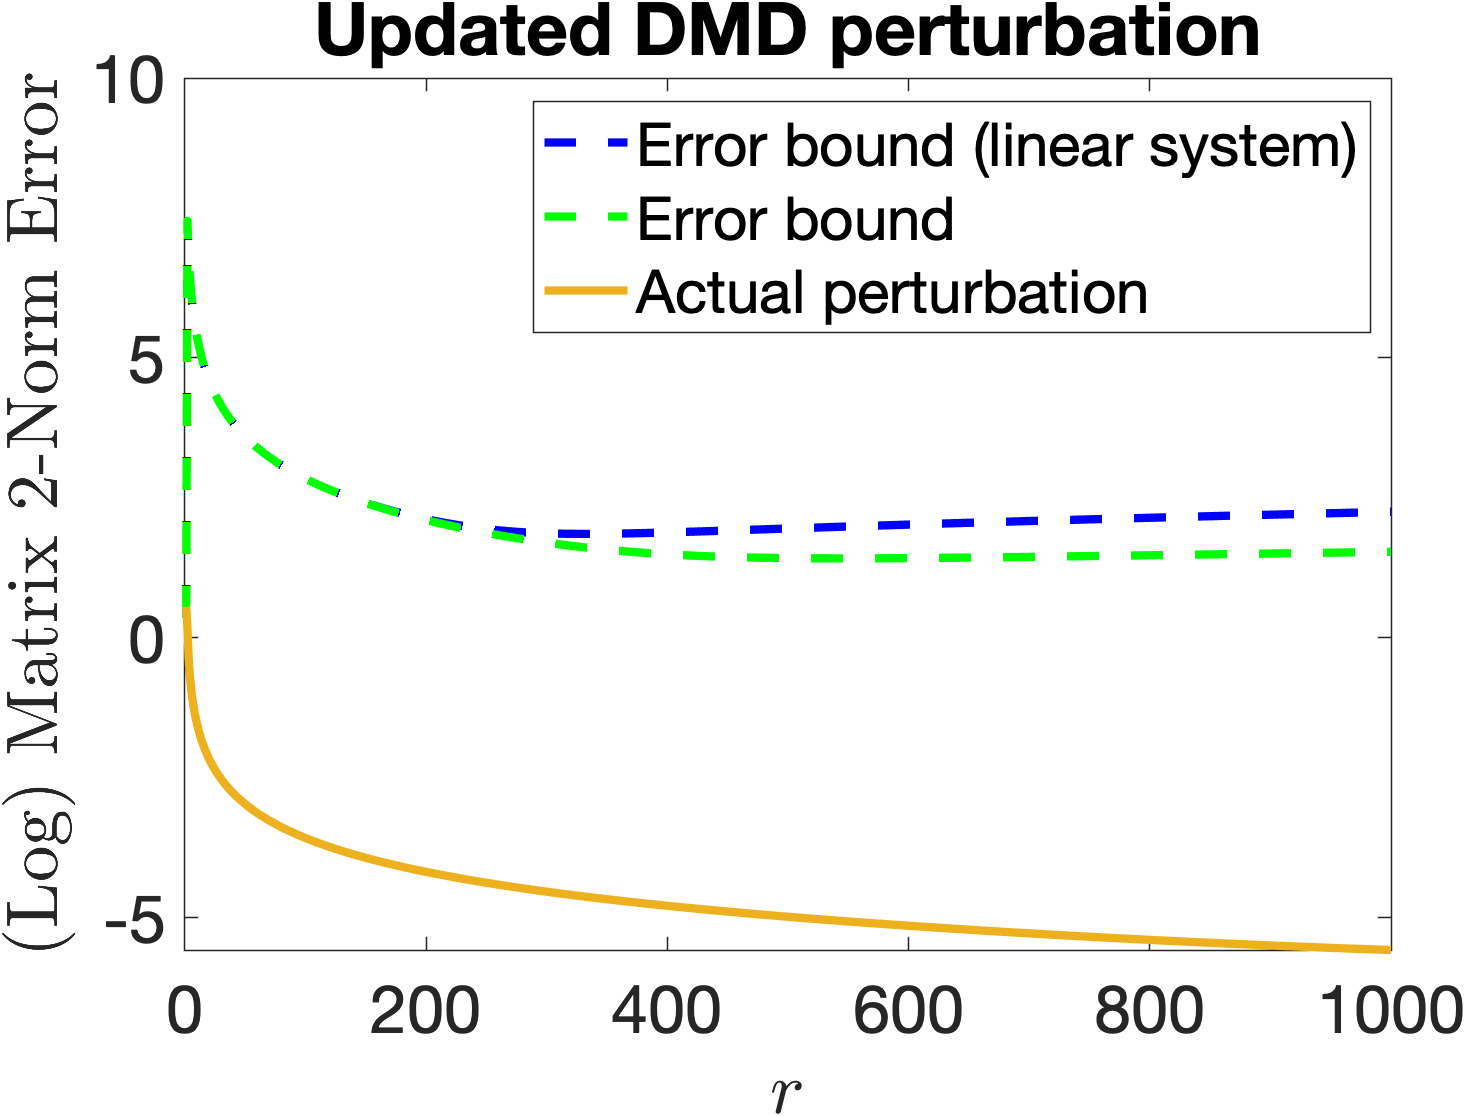
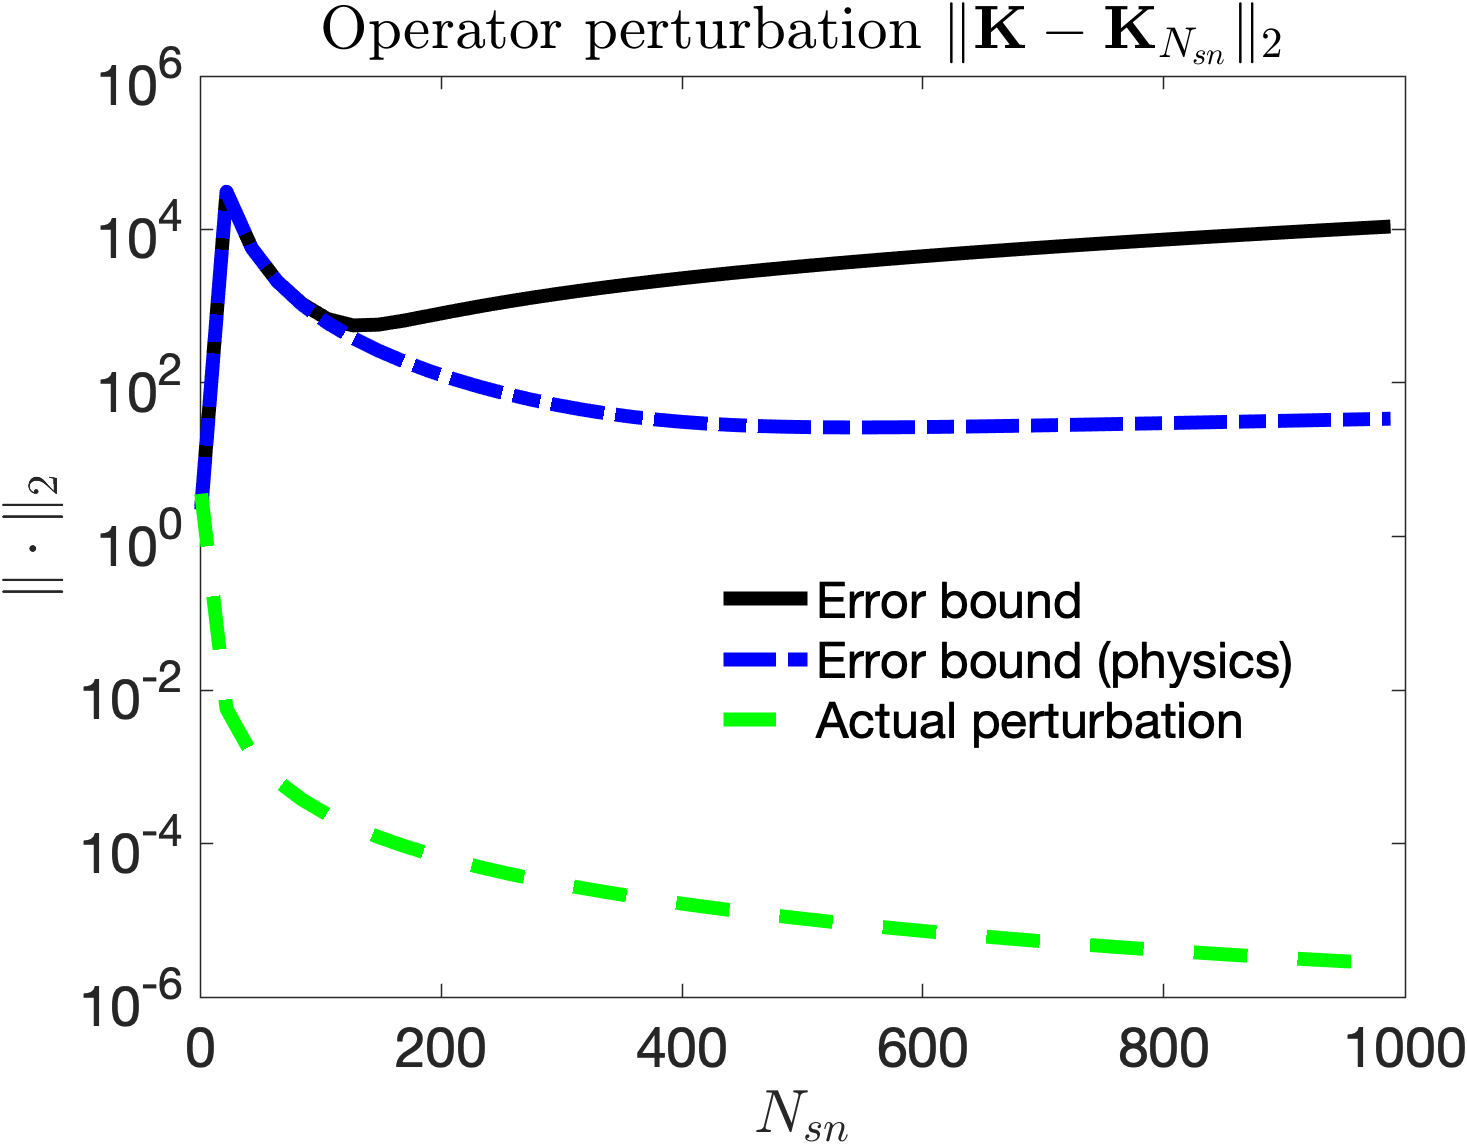
updated plots for draft revision

diff --git a/upper_bounds/test1_linear_system.m b/upper_bounds/test1_linear_system.m
@@ -5,15 +5,19 @@
 
 clear; clc; rng("default");
 
+
 % simulate data for the time dependent linear system
 x0 = [1,0];
 dt = 1e-3;
-tend = 10.0;
+tend = 20.0;
 tspan = 0:dt:tend+dt;
+% parameter for strength of linear dynamical system 
+eps = 0.1;
 nt = length(tspan);
-[t,U] = ode45(@linear_time, tspan, x0);
+wrapper = @(t, x) linear_time(t, x, eps);
+[t,U] = ode45(wrapper, tspan, x0);
 U = U';
-%% Time-shift upper bound
+% Time-shift upper bound
 % divide data 
 % number of snapshots
 M = 1000+1;
@@ -25,6 +29,9 @@ m = M-k+1;
 all_errors = zeros(M,1);
 all_upper_no_physics = zeros(M,1);
 all_upper_with_physics = zeros(M,1);
+
+% actual Y norm
+all_actual_y_norms = zeros(M,1);
 for i = 1:m-1
     % subslice matrices
     Xi = U(:,1:i);
@@ -56,7 +63,8 @@ for i = 1:m-1
     v_norm = norm(v,2);
     X_inv_norm = norm(pinv(Xi),2);
 
-    Y_norm = norm(Yi);
+    Y_norm = norm(Yi,2);
+    all_actual_y_norms(i) = Y_norm;
     %c = 1/(u'*u-u'*Xi*pinv(Xi)*u);
     c = 1/(u'*u);
     const1 = (c^2)*(u_norm^2)*(1+(u_norm/X_inv_norm)^2);
@@ -65,7 +73,7 @@ for i = 1:m-1
     all_upper_no_physics(i) = sqrt(const1*const2+const3);
 
     % compute physics-informed upper bound
-    Y_norm_physics = all_upper(i);
+    Y_norm_physics = all_upper(i)^2;
     % modified const2, others do not depend on Ynorm
     const2 = (Y_norm_physics^2+v_norm^2);
     all_upper_with_physics(i) = sqrt(const1*const2+const3);
@@ -73,59 +81,83 @@ for i = 1:m-1
 end
 
 
-%%
+
 figure(1);
-plot_skip=20;
+plot_skip=21;
 plot(1:plot_skip:M, log10(all_Xnorm(1:plot_skip:end)), ...
-    "-*", "Color", "green", "LineWidth", 3.0); 
+    "--", "Color", "green", "LineWidth", 5.0); 
+
+hold on;
+plot(1:plot_skip:M, log10(all_actual_y_norms(1:plot_skip:end)), ...
+    "-.", "Color", "#EDB120", "LineWidth", 5.0); 
+
 hold on;
 plot(1:plot_skip:M, log10(all_upper(1:plot_skip:end)), ...
-    "-*", "Color", "blue", "LineWidth", 3.0); 
+    "-", "Color", "black", "LineWidth", 5.0); 
 
-legend(["$||\mathbf{X}||$", "Bound on $||\mathbf{Y}||$"], "FontSize", 24, ...
-    "Location", "southeast", "Interpreter", "latex");
-xlabel("$r$", "Interpreter", "latex", "FontSize", ...
-    24, 'fontweight','bold');
-ylabel("(Log) Matrix 2-Norm", "Interpreter", "latex", "FontSize", ...
-    24, 'fontweight','bold');
+
+
+%legend(["$||\mathbf{X}||$", "$||\mathbf{Y}||$", ...
+ %   "$||\mathbf{Y}||$ bound"], "FontSize", 16, ...
+  %  "Location", "southeast", "Interpreter", "latex");
+legend({'$\|\mathbf{X}\|$', '$\|\mathbf{Y}\|$', ...
+    '$\|\mathbf{Y}\|$ bound'}, ...
+       'Interpreter', 'latex', ...
+       'Orientation', 'horizontal', ...
+       'Location', 'south',"FontSize", 24);
+legend boxoff;
+
 ax = gca;
-ax.FontSize = 24; 
-title("Effect of Time Shift")
+ax.FontSize = 20; 
+title("Effect of time shift",'Interpreter','latex');
+ytickformat('10^{%0d}');
+xlabel("$N_{sn}$", "Interpreter", "latex", 'fontweight','bold');
+ylabel("$\|\cdot\|_2$", "Interpreter", "latex", 'fontweight','bold');
+
+xticks([50 250 500 750 1000])
 exportgraphics(gcf, "./fig/time_shift_bound.png","Resolution",200);
 
 
 figure(2);
-plot(1:M-1, log10(all_upper_with_physics(1:end-1)), "--", ...
-    "Color", "blue", "LineWidth", 3.0); 
+plot(1:plot_skip:M-1, ...
+    log10(all_upper_with_physics(1:plot_skip:end-1)), "-", ...
+    "Color", "black", "LineWidth", 5.0); 
 hold on;
-plot(1:M-1, log10(all_upper_no_physics(1:end-1)), "--", ...
-    "Color", "green", "LineWidth", 3.0); 
+plot(1:plot_skip:M-1, ...
+    log10(all_upper_no_physics(1:plot_skip:end-1)), "-.", ...
+    "Color", "blue", "LineWidth", 5.0); 
 hold on;
-plot(1:M-1, log10(all_errors(1:end-1)),"LineWidth", 3.0);
-legend(["Error bound (linear system)", "Error bound", ...
+plot(1:plot_skip:M-1, ...
+    log10(all_errors(1:plot_skip:end-1)), '--',...
+    "LineWidth", 5.0,'Color','green');
+lgd = legend(["Error bound", "Error bound (physics)", ...
     "Actual perturbation"]);
-xlabel("$r$", "Interpreter", "latex", "FontSize", ...
-    24, 'fontweight','bold');
-ylabel("(Log) Matrix 2-Norm Error", "Interpreter", "latex", "FontSize", ...
-    24, 'fontweight','bold');
+lgd.Position = [0.45, 0.40, 0.4, 0.05];
+legend boxoff;
+
+ytickformat('10^{%0d}');
+xlabel("$N_{sn}$", ...
+    "Interpreter", "latex", 'fontweight','bold');
+ylabel("$\|\cdot\|_2$", "Interpreter", "latex", ...
+    'fontweight','bold');
 ax = gca;
-ax.FontSize = 24; 
-title("Updated DMD perturbation")
+ax.FontSize = 20; 
+title("Operator perturbation $\|\mathbf{K}-\mathbf{K}_{N_{sn}}\|_2$",'Interpreter','latex');
 exportgraphics(gcf, "./fig/physics_informed_perturb.png","Resolution",200);
 
 
 
 %% Helper
 % simple time dependent linear system
-function dxdt = linear_time(t, x)
+function dxdt = linear_time(t, x, eps)
     dxdt = zeros(2, 1);
-    dxdt(1) = (1+0.1*t)*x(2);
-    dxdt(2) = (-1-0.1*t)*x(1);
-    dxdt = dxdt + f(t);
+    dxdt(1) = (1+eps*t)*x(2);
+    dxdt(2) = (-1-eps*t)*x(1);
+    dxdt = dxdt + f(t,eps);
 end
 
-function feval = f(t)
+function feval = f(t, eps)
     feval = zeros(2,1);
-    feval(1)=-sin(0.1*t);
-    feval(2)=cos(0.1*t);
+    feval(1)=-sin(eps*t);
+    feval(2)=cos(eps*t);
 end

diff --git a/README.md b/README.md
@@ -5,7 +5,7 @@ This repository contains code files for the manuscript by [Hongli Zhao and Danie
 
 The description of the repository structure is as follows. We mainly test 4 methods in dynamic mode decomposition (DMD), (1) standard DMD, (2) [Lagrangian DMD](https://arxiv.org/abs/1908.03688), (3) [Online DMD](https://arxiv.org/abs/1707.02876), (4) Local Lagrangian DMD (proposed).
 
-* `/experiments` contains several advection-dominated examples (e.g. conservative advection in 1D and 2D and 2D oscillator ODE). In order to reproduce the Navier-Stokes equation example, please refer to instructions of [this repository](https://github.com/JamieMJohns/Navier-stokes-2D-numerical-solve-incompressible-flow-with-custom-scenarios-MATLAB-) to generate necessary solution data.
+* `/experiments` contains several advection-dominated examples (e.g. conservative advection in 1D and 2D and 2D oscillator ODE). In order to reproduce the Navier-Stokes equation example, please refer to instructions of [this repository](https://github.com/JamieMJohns/Navier-stokes-2D-numerical-solve-incompressible-flow-with-custom-scenarios-MATLAB-) to generate necessary solution data (run `Main.m`, the data will be saved locally to a folder, then post-process with DMD strategies). 
 
 * `/scaling` contains a subroutine for scalably updating the singular value decomposition (SVD) in windows.
 
